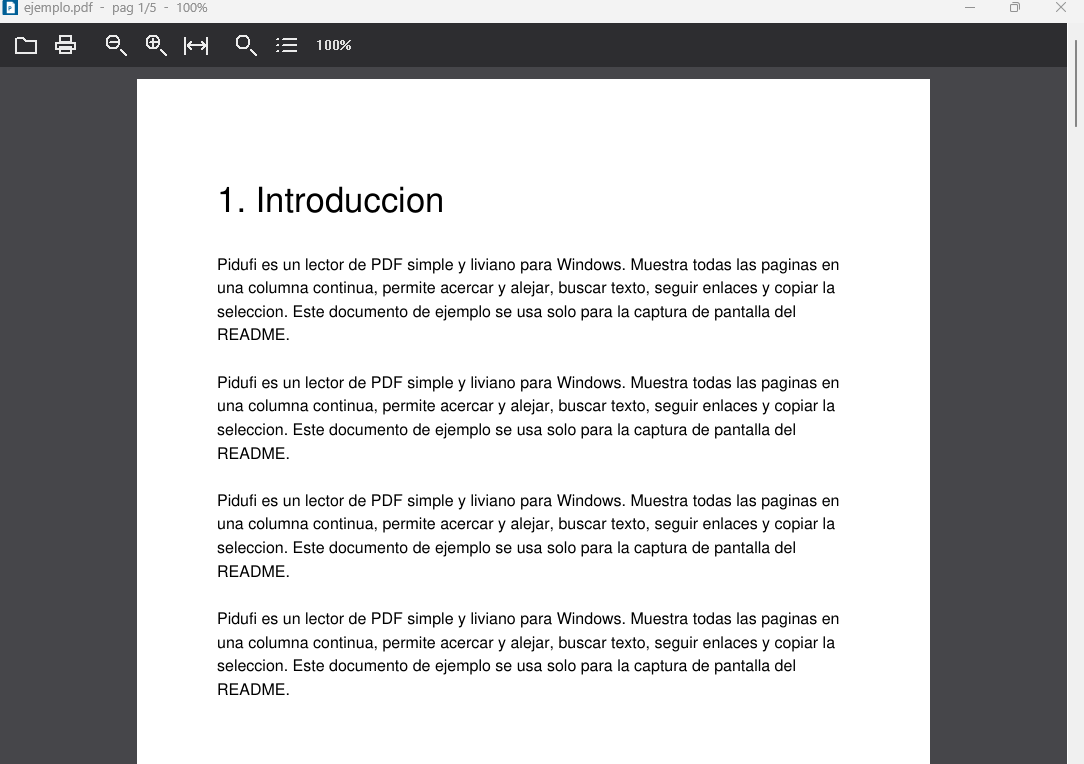
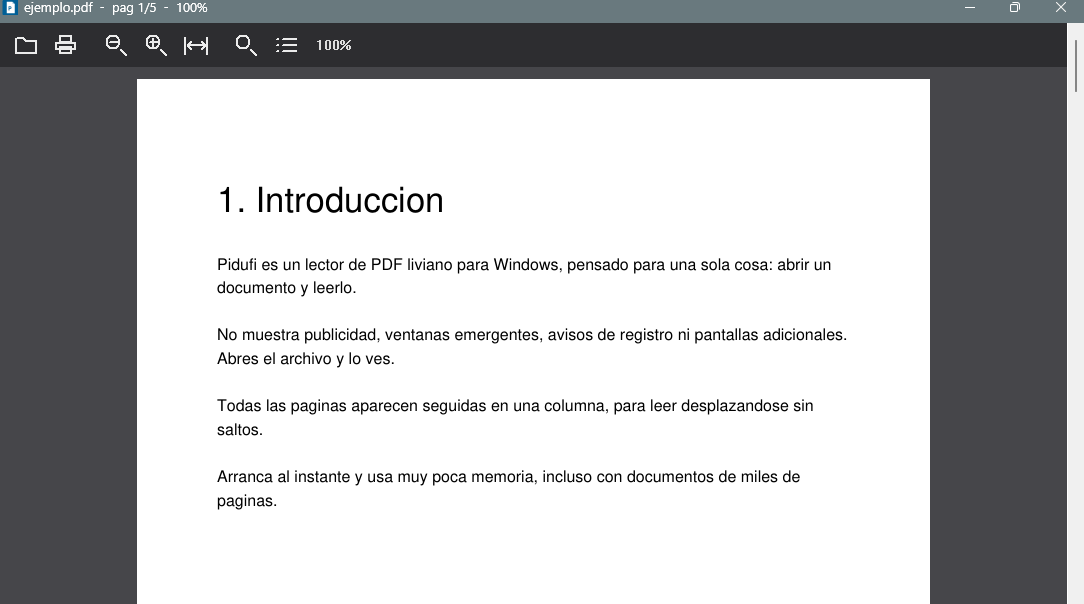
README: pantallazo con contenido variado y nota sin publicidad

Changed region(s): [[0.1827, 0.2384, 0.7915, 0.9238], [0.0, 0.0, 1.0, 0.149], [0.1827, 0.2384, 0.2131, 0.2682]]

diff --git a/README.md b/README.md
@@ -2,6 +2,8 @@
 
 Lector de PDF simple y liviano para Windows, escrito en C++17 con Win32 y [MuPDF](https://mupdf.com/). Sin dependencias en tiempo de ejecucion salvo una DLL.
 
+Hecho para abrir un PDF y leerlo, sin interrupciones: no muestra publicidad, ventanas emergentes, avisos de registro ni pantallas adicionales.
+
 ![Pidufi](docs/pantallazo.png)
 
 ## Caracteristicas
